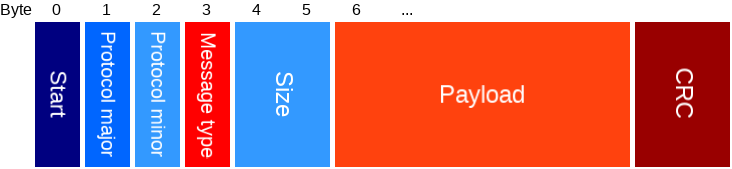
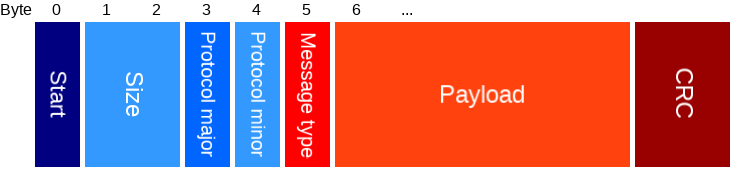
Changed UART protocol: moved size field. Excluded size from CRC.

Changed region(s): [[0.0902, 0.1183, 0.4508, 1.0]]

diff --git a/source/src/uart/cs_UartHandler.cpp b/source/src/uart/cs_UartHandler.cpp
@@ -67,6 +67,7 @@ void UartHandler::writeMsgStart(UartOpcodeTx opCode, uint16_t size) {
 //		return;
 //	}
 
+	uart_msg_size_header_t sizeHeader;
 	uart_msg_wrapper_header_t wrapperHeader;
 	if (UartProtocol::mustBeEncryptedTx(opCode)) {
 		wrapperHeader.type = static_cast<uint8_t>(UartMsgType::ENCRYPTED_UART_MSG);
@@ -76,9 +77,14 @@ void UartHandler::writeMsgStart(UartOpcodeTx opCode, uint16_t size) {
 	else {
 		writeStartByte();
 
+		// Init CRC
+		_crc = UartProtocol::crc16(nullptr, 0);
+
+		sizeHeader.size = sizeof(wrapperHeader) + sizeof(uart_msg_header_t) + size + sizeof(uart_msg_tail_t);
+		writeBytes((uint8_t*)(&sizeHeader), sizeof(sizeHeader));
+
 		wrapperHeader.type = static_cast<uint8_t>(UartMsgType::UART_MSG);
-		wrapperHeader.size = sizeof(uart_msg_header_t) + size;
-		_crc = UartProtocol::crc16((uint8_t*)(&wrapperHeader), sizeof(wrapperHeader));
+		UartProtocol::crc16((uint8_t*)(&wrapperHeader), sizeof(wrapperHeader), _crc);
 		writeBytes((uint8_t*)(&wrapperHeader), sizeof(wrapperHeader));
 
 		uart_msg_header_t msgHeader;
@@ -179,30 +185,28 @@ void UartHandler::onRead(uint8_t val) {
 
 	_readBuffer[_readBufferIdx++] = val;
 
-	if (_readBufferIdx == sizeof(uart_msg_wrapper_header_t)) {
-		// First check received size, then add header and tail size.
-		// Otherwise an overflow would lead to passing the size check.
-		uart_msg_wrapper_header_t* wrapperHeader = reinterpret_cast<uart_msg_wrapper_header_t*>(_readBuffer);
-		uint16_t wrapperSize = sizeof(uart_msg_wrapper_header_t) + sizeof(uart_msg_tail_t);
-		if (wrapperHeader->size > UART_RX_BUFFER_SIZE - wrapperSize) {
-			resetReadBuf();
-			return;
+	if (_sizeToRead == 0) {
+		if (_readBufferIdx == sizeof(uart_msg_size_header_t)) {
+			// Check received size
+			uart_msg_size_header_t* sizeHeader = reinterpret_cast<uart_msg_size_header_t*>(_readBuffer);
+			if (sizeHeader->size == 0 || sizeHeader->size > UART_RX_BUFFER_SIZE) {
+				resetReadBuf();
+				return;
+			}
+			// Set size to read and reset read buffer index.
+			_sizeToRead = sizeHeader->size;
+			_readBufferIdx = 0;
 		}
-		_sizeToRead = wrapperSize + wrapperHeader->size;
 	}
-
-	if (_readBufferIdx >= sizeof(uart_msg_wrapper_header_t)) {
-		// Header was read, so size to read is set.
-		if (_readBufferIdx >= _sizeToRead) {
-			// Block reading until the buffer has been handled.
-			_readBusy = true;
-			// Decouple callback from interrupt handler, and put it on app scheduler instead
-			cs_data_t msgData;
-			msgData.data = _readBuffer;
-			msgData.len = _readBufferIdx;
-			uint32_t errorCode = app_sched_event_put(&msgData, sizeof(msgData), handle_msg);
-			APP_ERROR_CHECK(errorCode);
-		}
+	else if (_readBufferIdx >= _sizeToRead) {
+		// Block reading until the buffer has been handled.
+		_readBusy = true;
+		// Decouple callback from interrupt handler, and put it on app scheduler instead
+		cs_data_t msgData;
+		msgData.data = _readBuffer;
+		msgData.len = _readBufferIdx;
+		uint32_t errorCode = app_sched_event_put(&msgData, sizeof(msgData), handle_msg);
+		APP_ERROR_CHECK(errorCode);
 	}
 }
 
@@ -219,18 +223,7 @@ void UartHandler::handleMsg(cs_data_t* msgData) {
 }
 
 void UartHandler::handleMsg(uint8_t* data, uint16_t size) {
-//	// Check wrapper fits in msgData.
-//	uint16_t wrapperSize = sizeof(uart_msg_wrapper_header_t) + sizeof(uart_msg_tail_t);
-//	if (size < wrapperSize) {
-//		return;
-//	}
-//
-//	// Check if payload fits in msgData.
-//	uart_msg_wrapper_header_t* wrapperHeader = reinterpret_cast<uart_msg_wrapper_header_t*>(data);
-//	if (size - wrapperSize < wrapperHeader->size) {
-//		return;
-//	}
-
+	// Get wrapper header and payload data.
 	uint16_t wrapperSize = sizeof(uart_msg_wrapper_header_t) + sizeof(uart_msg_tail_t);
 	uart_msg_wrapper_header_t* wrapperHeader = reinterpret_cast<uart_msg_wrapper_header_t*>(data);
 	uint8_t* payload = data + sizeof(uart_msg_wrapper_header_t);
@@ -238,7 +231,7 @@ void UartHandler::handleMsg(uint8_t* data, uint16_t size) {
 
 	// Check CRC
 	uint16_t calculatedCrc = UartProtocol::crc16(data, size - sizeof(uart_msg_tail_t));
-	uart_msg_tail_t* tail = reinterpret_cast<uart_msg_tail_t*>(data + sizeof(uart_msg_wrapper_header_t) + wrapperHeader->size);
+	uart_msg_tail_t* tail = reinterpret_cast<uart_msg_tail_t*>(data + size - sizeof(uart_msg_tail_t));
 	if (calculatedCrc != tail->crc) {
 		LOGw("CRC mismatch: calculated=%u received=%u", calculatedCrc, tail->crc);
 		return;

diff --git a/source/include/protocol/cs_UartProtocol.h b/source/include/protocol/cs_UartProtocol.h
@@ -26,13 +26,19 @@ enum class UartMsgType : uint8_t {
 
 /**
  * Very first header, right after the start byte.
+ * Only used to determine how many bytes have to be read, so only has size as field.
+ */
+struct __attribute__((__packed__)) uart_msg_size_header_t {
+	uint16_t size = 0; // Size of all remaining bytes, including tail.
+};
+
+/**
+ * Wrapper header, after the initial size field.
  */
 struct __attribute__((__packed__)) uart_msg_wrapper_header_t {
-//	uint8_t start;
 	uint8_t protocolMajor = UART_PROTOCOL_MAJOR;
 	uint8_t protocolMinor = UART_PROTOCOL_MINOR;
 	uint8_t type = 0;
-	uint16_t size = 0; // Size of payload, see UartMsgType.
 	// Followed by payload
 };
 
@@ -67,7 +73,7 @@ struct __attribute__((__packed__)) uart_msg_header_t {
  * Final bytes.
  */
 struct __attribute__((__packed__)) uart_msg_tail_t {
-	uint16_t crc;
+	uint16_t crc; // The CRC16 (CRC-16-CCITT) of everything after the size field.
 };
 
 namespace UartProtocol {

diff --git a/docs/UART_PROTOCOL.md b/docs/UART_PROTOCOL.md
@@ -20,12 +20,12 @@ Every UART message is wrapped.
 Type | Name | Length | Description
 --- | --- | --- | ---
 uint8   | Start          | 1 | Start of a message.
+uint16  | Size           | 2 | Size of all data after this field, including CRC.
 uint8   | Protocol major | 1 | Major protocol version, increased for breaking changes.
 uint8   | Protocol minor | 1 | Minor protocol version, increased when new types are added.
 uint8   | Message type   | 1 | Type of UART message, see below.
-uint16  | Size           | 2 | Size of payload.
 uint8[] | Payload        | N | Depends on message type.
-uint16  | CRC            | 2 | The CRC16 (CRC-16-CCITT) of everything except the start byte.
+uint16  | CRC            | 2 | The CRC16 (CRC-16-CCITT) of everything after the size field.
 
 Type | Payload
 --- | ---
@@ -54,7 +54,7 @@ uint8[] | Encrypted data | N | Encrypted with [AES CTR](PROTOCOL.md#ctr_encrypti
 Type | Name | Length | Description
 --- | --- | --- | ---
 uint32  | Validation   | 4 | Validation
-uint16  | Messge size  | 2 | Size of the uart message in bytes.
+uint16  | Message size | 2 | Size of the uart message in bytes.
 uint8[] | [UART message](#uart_msg) | Size | The uart message.
 uint8[] | Padding      | N | Padding to make this whole packet size a multiple of 16.
 
